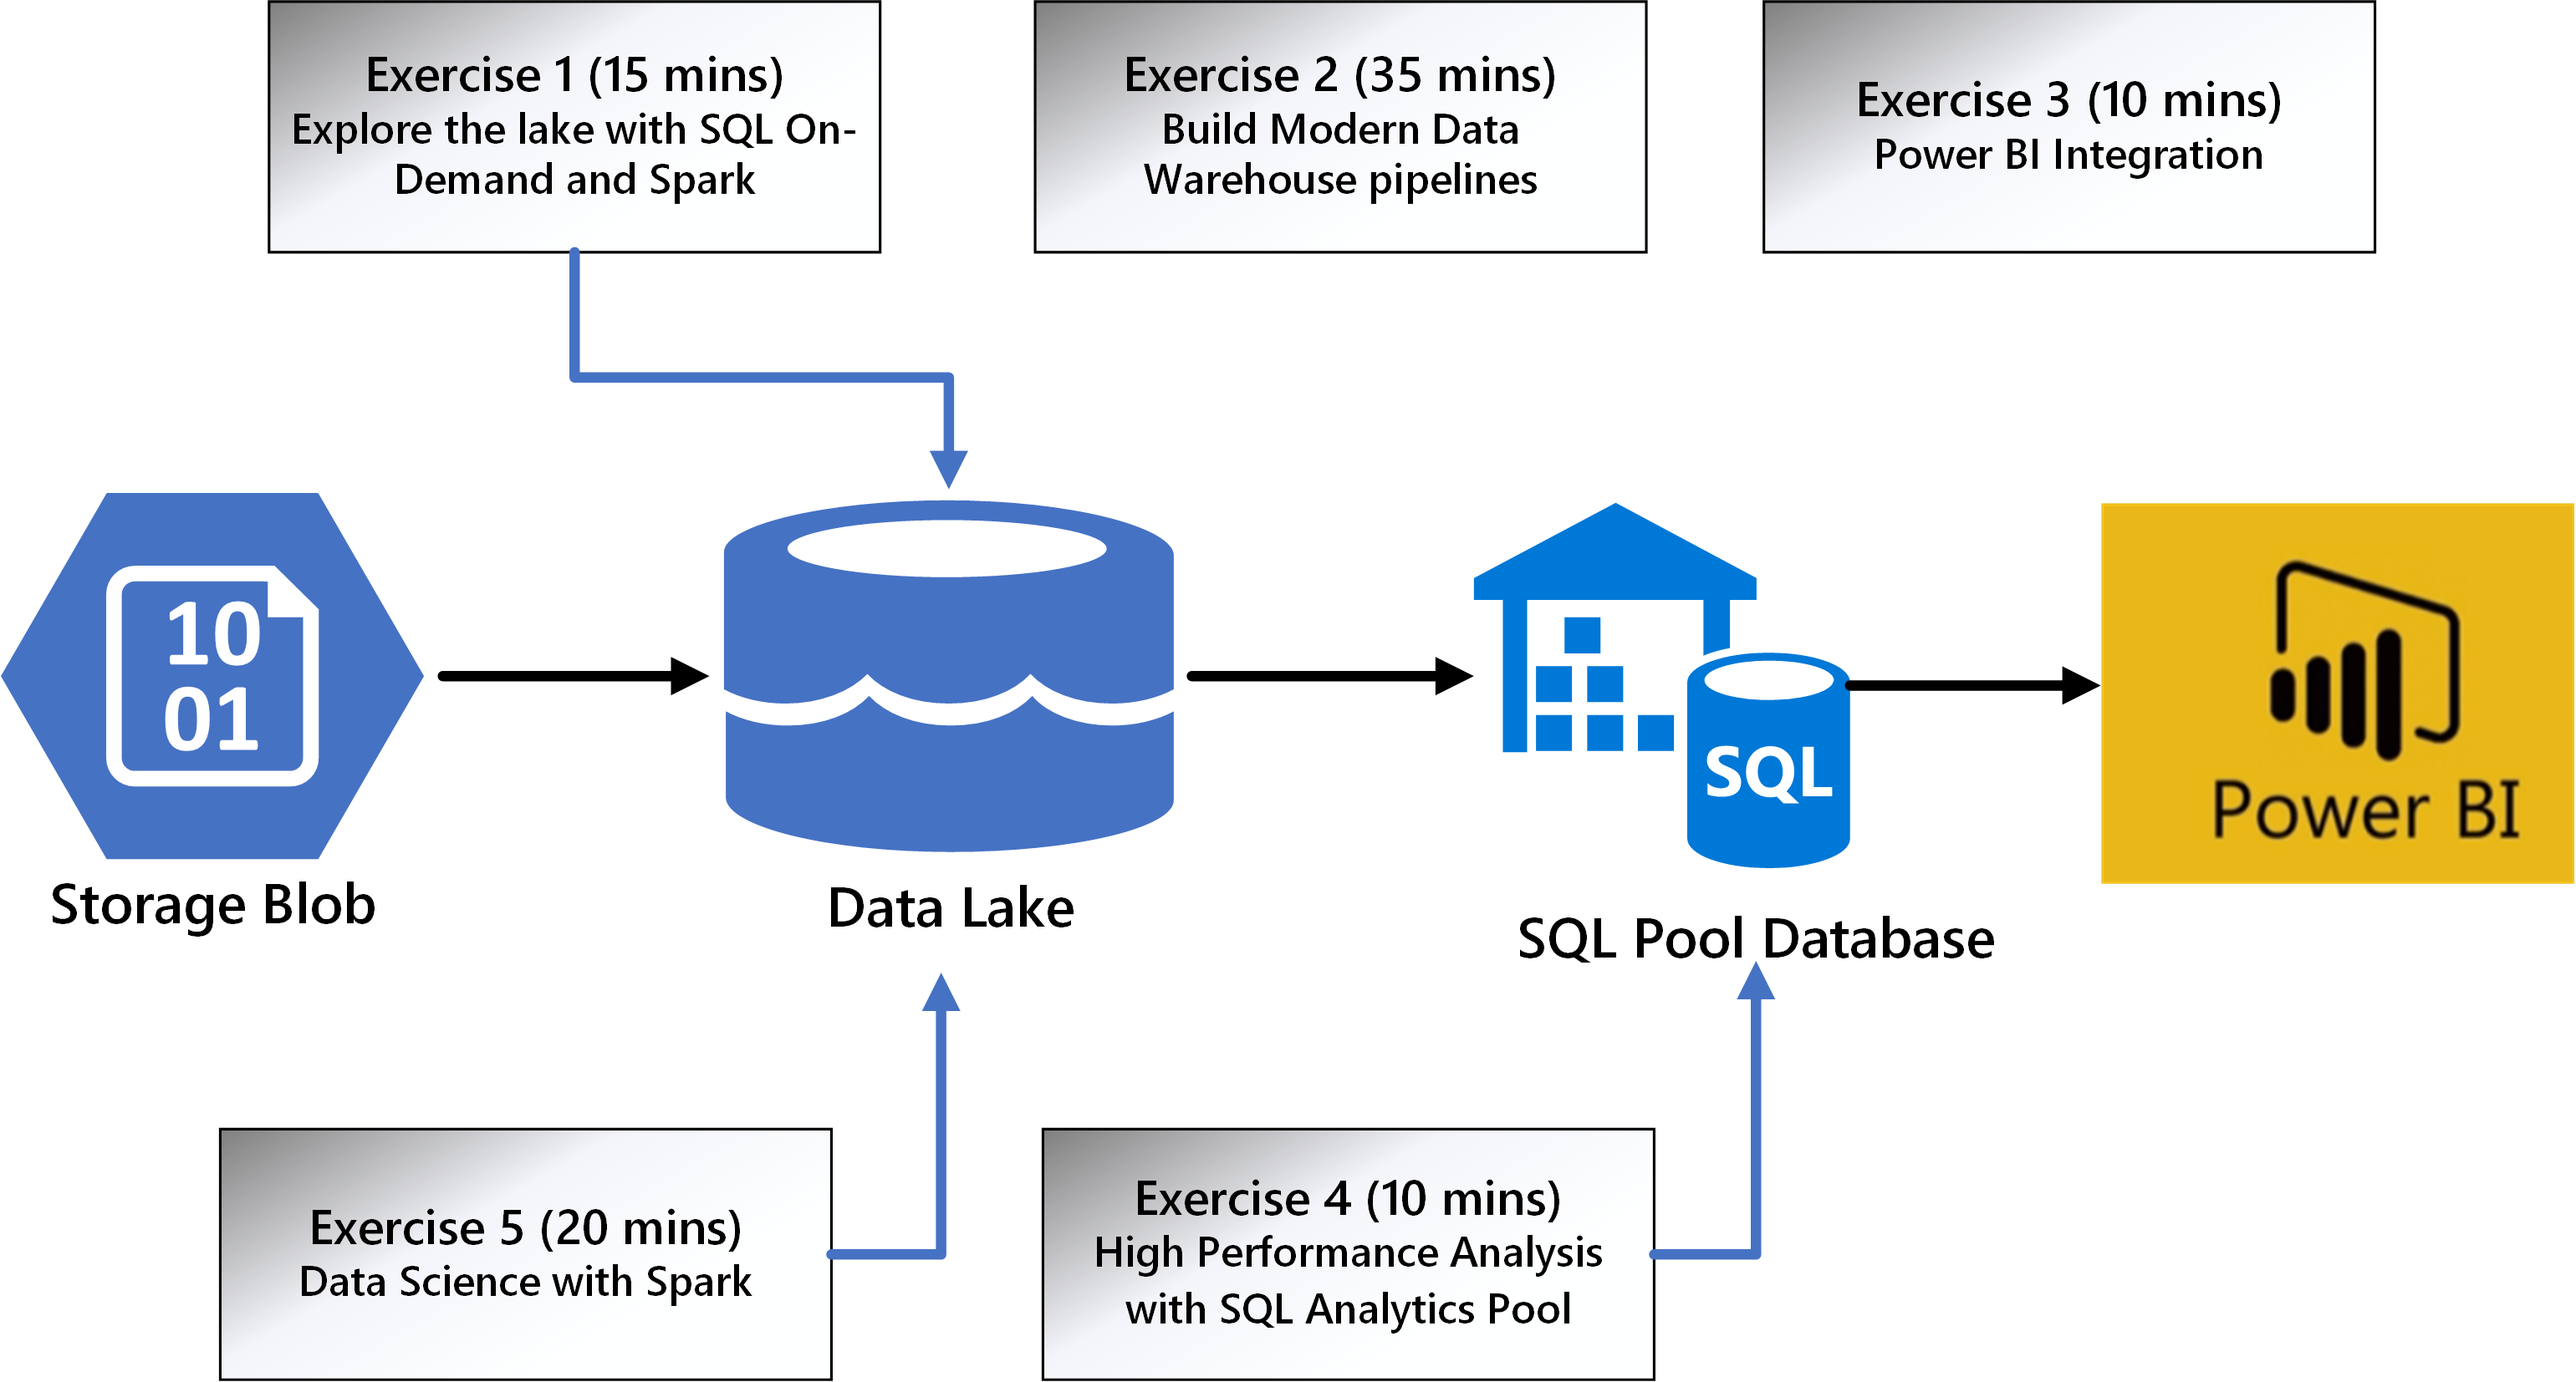
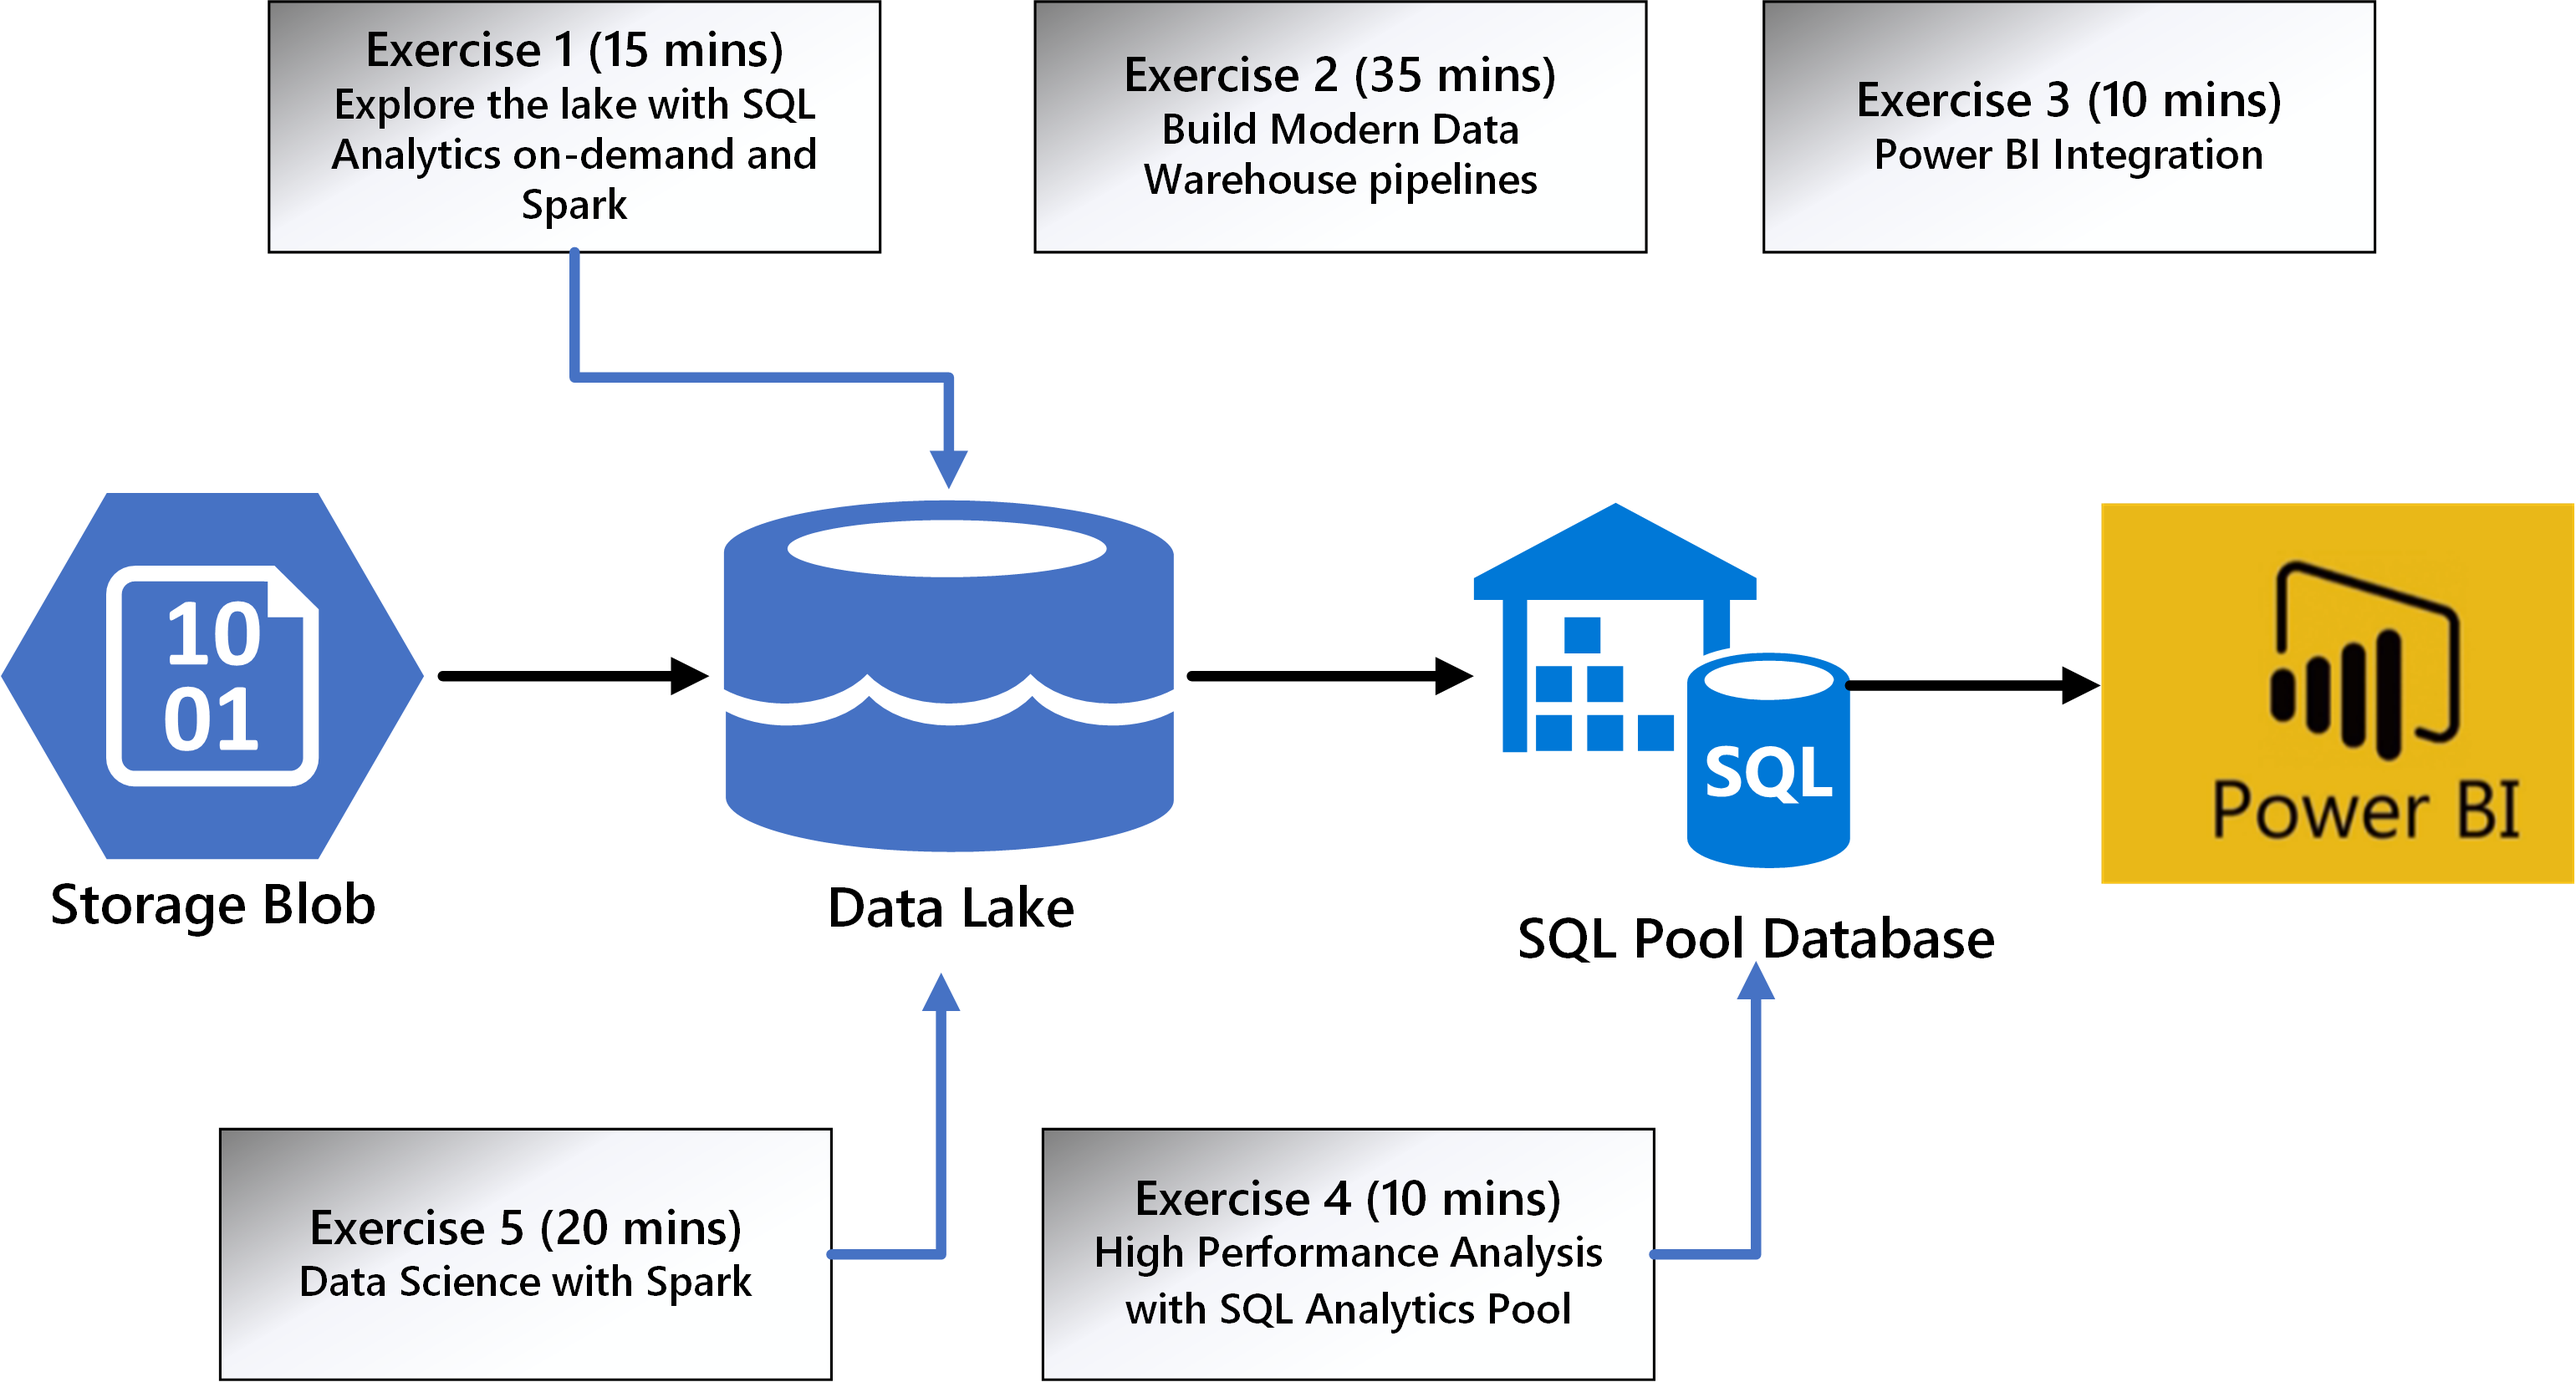
Detailed exercise descriptions

Changed region(s): [[0.1246, 0.0, 0.3427, 0.1542]]

diff --git a/README.md b/README.md
@@ -26,22 +26,42 @@ The diagram below provides a unified view of the exercises in the lab and their 
 
 ![Azure Synapse Analytics Lab Exercises](./media/exercises.png)
 
-## Exercise 1 - [Explore the data lake with SQL On-Demand and Spark](./01-explore-data-lake.md)
+## Exercise 1 - [Explore the data lake with SQL Analytics on-demand and Spark](./01-explore-data-lake.md)
 
 In this exercise you will explore data using the engine of your choices (SQL or Spark).
+
+Understanding data through data exploration is one of the core challenges faced today by data engineers and data scientists as well. Depending on the underlying structure of the data as well as the specific requirements of the exploration process, different data processing engines will offer varying degrees of performance, complexity, and flexibility.
+
+In Azure Synapse Analytics, you have the possibility of using either the on-demand SQL engine, the big-data Spark engine, or both.
 
 ## Exercise 2 - [Build Modern Data Warehouse pipelines](./02-build-modern-dw-pipelines.md)
 
 In this exercise you will use a pipeline with parallel activities to bring data into the Data Lake, transform it and load it into the SQL Pool. You will also monitor the progress of the associated tasks.
 
+Once data is properly understood and interpreted, moving it to the various destinations where processing steps occur is the next big task. Any modern data platform must provide a seamless experience for all the typical data wrangling actions like extractions, parsing, joining, standardizing, augmenting, cleansing, consolidating, and filtering.
+
+Azure Synapse Analytics provides two significant categories of features - data flows and data orchestrations (implemented as pipelines). They cover the whole range of needs, from design and development to triggering, execution, and monitoring.
+
 ## Exercise 3 - [Power BI integration](./03-power-bi-integration.md)
 
 In this exercise you will build a Power BI report in Synapse.
 
-## Exercise 4 - [High Performance Analysis with SQL Analytics Pool](./04-high-performance-analysis.md)
+The visual approach in data exploration, analysis, and interpretation is one of the essential tools for both technical users (data engineers, data scientists) and business users. Having a highly flexible and performant data presentation layer is a must for any modern data platform.
+
+Azure Synapse Analytics integrates natively with Power BI, a proven and highly successful data presentation and exploration platform. The Power BI experience is available inside Synapse Studio.
+
+## Exercise 4 - [High Performance Analysis with SQL Analytics pool](./04-high-performance-analysis.md)
 
 In this exercise you will try to understand <TBD> using a query and chart visualizations.
+
+SQL data warehouses have been for a long time the centers of gravity in data platforms. Modern data warehouses are capable of providing high performance, distributed, and governed workloads, regardless of the data volumes at hand.
+
+The SQL Analytics pool in Azure Synapse Analytics is the new incarnation of the former Azure SQL Data Warehouse. It provides all the modern SQL data warehousing features while benefiting from the advanced integration with all the other Synapse services.
 
 ## Exercise 5 - [Data Science with Spark](./05-data-science-with-spark.md)
 
 In this exercise you will play the role of a Data Scientist that based on the <TBD> dataset, using Synapse Notebook, creates a model to predict <TBD>.
+
+Modern era data environments must handle in a performant and seamless way any data an organization might have. In almost all cases, this means a combination of relational SQL-style capabilities and big data ones. In the world of massively distributed big data processing platforms, Spark is almost an implicit choice.
+
+Azure Synapse Analytics provides Apache Spark pools to support data science workloads. They enable data scientists to perform all their specific tasks while benefiting from the integration with the other Synapse services.

diff --git a/01-explore-data-lake.md b/01-explore-data-lake.md
@@ -1,6 +1,6 @@
-# Explore the Data Lake with SQL On-Demand and Spark
+# Explore the Data Lake with SQL Analytics on-demand and Spark
 
-## Task 1 - Explore the Data Lake with SQL On-Demand
+## Task 1 - Explore the Data Lake with SQL Analytics on-demand
 
 Lorem ipsum...
 

diff --git a/04-high-performance-analysis.md b/04-high-performance-analysis.md
@@ -1,4 +1,4 @@
-# High Performance Analysis with SQL Analytics Pool
+# High Performance Analysis with SQL Analytics pool
 
 ## Task 1 - Create SQL pool query to understand <TBD>
 
